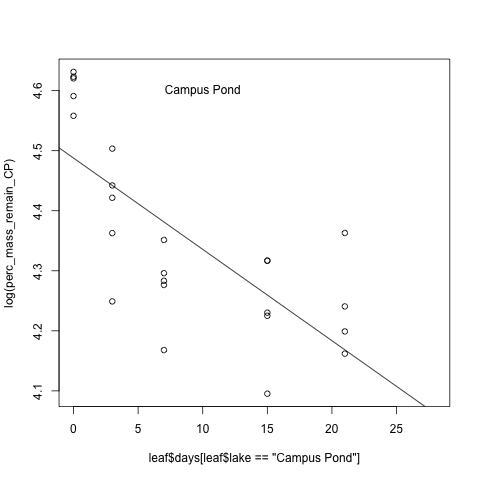
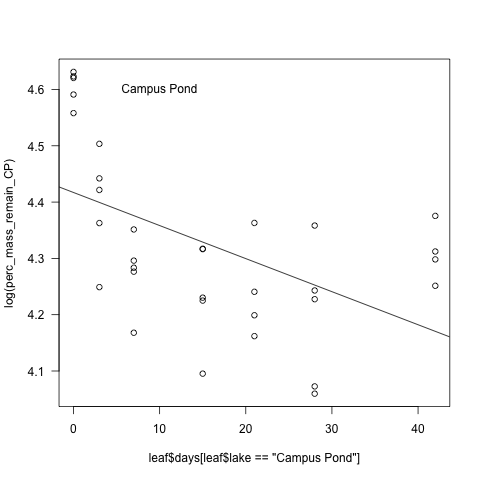
calculated and plotted the mass and percent loss for ponds to date

diff --git a/lab_notebook_entries/data_analysis/code/leaf_dry_mass_analysis.md b/lab_notebook_entries/data_analysis/code/leaf_dry_mass_analysis.md
@@ -52,40 +52,40 @@ All ponds together
     plot(log(leaf_mass) ~ days, data = leaf, subset = lake == "Campus Pond")
     points(log(leaf_mass) ~ days, data = leaf, subset = lake == "Daulton Pond", col = 3)
     points(log(leaf_mass) ~ days, data = leaf, subset = lake == "Lancer Park Pond", col = 2)
-    dev.copy(png, "./output/plots/All_leaf_22days.png")
+    dev.copy(png, "./output/plots/All_ponds_leaf.png")
     dev.off()
 
-![Leaf mass remaining in all of the ponds after 22 days](../output/plots/All_leaf_22days.png)
+![Leaf mass remaining in all of the ponds](../output/plots/All_ponds_leaf.png)
 
 Campus Pond
    
     par(las = 1)
     plot(log(leaf_mass) ~ days, data = leaf, subset = lake == "Campus Pond")
     text(10, 1.5, "Campus Pond")
-    dev.copy(png, "./output/plots/CP_leaf_22days.png")
+    dev.copy(png, "./output/plots/CP_leaf.png")
     dev.off()
 
-![Leaf mass remaining in Campus Pond after 22 days](../output/plots/CP_leaf_22days.png)
+![Leaf mass remaining in Campus Pond](../output/plots/CP_leaf.png)
 
 Daulton Pond
 
     par(las = 1)
     plot(log(leaf_mass) ~ days, data = leaf, subset = lake == "Daulton Pond")
     text(10, 1.5, "Daulton Pond")
-    dev.copy(png, "./output/plots/DP_leaf_22days.png")
+    dev.copy(png, "./output/plots/DP_leaf.png")
     dev.off()
 
-![Leaf mass remaining in Daulton Pond after 22 days](../output/plots/DP_leaf_22days.png)
+![Leaf mass remaining in Daulton Pond ](../output/plots/DP_leaf.png)
 
 Lancer Park Pond
 
     par(las = 1)
     plot(log(leaf_mass) ~ days, data = leaf, subset = lake == "Lancer Park Pond")
     text(10, 1.5, "Lancer Park Pond")
-    dev.copy(png, "./output/plots/LPP_leaf_15days.png")
+    dev.copy(png, "./output/plots/LPP_leaf.png")
     dev.off()
 
-![Leaf mass remaining in Lancer Park Pond after 15 days](../output/plots/LPP_leaf_15days.png)
+![Leaf mass remaining in Lancer Park Pond](../output/plots/LPP_leaf.png)
  
 #### Plot curves based on percent for each pond
 
@@ -106,23 +106,6 @@ Lancer Park Pond
 * perc_mass_remain_CP = the percent of the leaf mass remaining relative to `initial_mass_CP`
 
     perc_mass_remain_CP <- (leaf_mass[leaf$lake == "Campus Pond"] / initial_mass_CP) * 100
-
-~~~~
-
-perc_mass_remain_CP
- [1]  95.39921 101.82396  98.59482 102.63739 101.54462  83.22681  70.03540
- [8]  78.47138  84.95647  90.32421  71.98182  64.58274  72.48686  73.40756
-[15]  77.58644  74.97184  60.05748  68.73480  74.92715  68.37725  78.48926
-[22]  69.45438  64.19613        NA  66.62078        NA        NA        NA
-[29]        NA        NA        NA        NA        NA        NA        NA
-[36]        NA        NA        NA        NA        NA        NA        NA
-[43]        NA        NA        NA        NA        NA        NA        NA
-[50]        NA        NA        NA        NA        NA        NA        NA
-[57]        NA        NA        NA        NA        NA        NA        NA
-[64]        NA        NA        NA        NA        NA        NA        NA
->
-
-~~~~
 
 Plot of the ln percent mass remaining by days in the pond
 
@@ -149,22 +132,77 @@ lm(formula = log(perc_mass_remain_CP) ~ leaf$days[leaf$lake ==
     "Campus Pond"])
 
 Residuals:
-      Min        1Q    Median        3Q       Max 
--0.213327 -0.080852 -0.003174  0.070825  0.194654 
+     Min       1Q   Median       3Q      Max 
+-0.23363 -0.09867 -0.01241  0.10574  0.21416 
 
 Coefficients:
                                        Estimate Std. Error t value Pr(>|t|)    
-(Intercept)                            4.487757   0.034834 128.832  < 2e-16 ***
-leaf$days[leaf$lake == "Campus Pond"] -0.015212   0.003027  -5.026 4.95e-05 ***
+(Intercept)                            4.417037   0.035825 123.295  < 2e-16 ***
+leaf$days[leaf$lake == "Campus Pond"] -0.005874   0.001730  -3.396  0.00189 ** 
 ---
 
-Residual standard error: 0.1116 on 22 degrees of freedom
-  (46 observations deleted due to missingness)
-Multiple R-squared: 0.5345,	Adjusted R-squared: 0.5133 
-F-statistic: 25.26 on 1 and 22 DF,  p-value: 4.948e-05 
+Residual standard error: 0.1346 on 31 degrees of freedom
+  (37 observations deleted due to missingness)
+Multiple R-squared: 0.2711,	Adjusted R-squared: 0.2476 
+F-statistic: 11.53 on 1 and 31 DF,  p-value: 0.001892 
 
->
+> 
 
 ~~~~
 
-In this case the ln percent remaining still shows a curveilinear relationship.
+##### Daulton Pond
+
+* initial_mass_CP = the mean of the mass of the leaf packs that were placed in the Daulton Pond during deployment and then removed immediately 
+
+    initial_mass_DP <- mean(leaf_mass[leaf$days == 0 & leaf$lake == "Daulton Pond"], na.rm = T)
+
+~~~~
+
+> initial_mass_DP
+[1] 4.49732
+> 
+
+~~~~
+
+* perc_mass_remain_DP = the percent of the leaf mass remaining relative to `initial_mass_DP`
+
+    perc_mass_remain_DP <- (leaf_mass[leaf$lake == "Daulton Pond"] / initial_mass_DP) * 100
+
+Plot of the ln percent mass remaining by days in the pond
+
+    plot(log(perc_mass_remain_DP) ~ leaf$days[leaf$lake == "Daulton Pond"])
+    abline(lm(log(perc_mass_remain_DP) ~ leaf$days[leaf$lake == "Daulton Pond"]))
+    text(10, 4.6, "Daulton Pond")
+    dev.copy(png, "./output/plots/DP_perc_loss.png")
+    dev.off()
+
+![Percent remaining leaf mass in Daulton Pond](../output/plots/DP_perc_loss.png)
+
+##### Lancer Park Pond
+
+* initial_mass_CP = the mean of the mass of the leaf packs that were placed in the Daulton Pond during deployment and then removed immediately 
+
+    initial_mass_LPP <- mean(leaf_mass[leaf$days == 0 & leaf$lake == "Lancer Park Pond"], na.rm = T)
+
+~~~~
+
+> initial_mass_LPP
+[1] 4.33764
+> 
+
+~~~~
+
+* perc_mass_remain_LPP = the percent of the leaf mass remaining relative to `initial_mass_LPP`
+
+    perc_mass_remain_LPP <- (leaf_mass[leaf$lake == "Lancer Park Pond"] / initial_mass_LPP) * 100
+
+Plot of the ln percent mass remaining by days in the pond
+
+    plot(log(perc_mass_remain_LPP) ~ leaf$days[leaf$lake == "Lancer Park Pond"])
+    abline(lm(log(perc_mass_remain_LPP) ~ leaf$days[leaf$lake == "Lancer Park Pond"]))
+    text(10, 4.6, "Lancer Park Pond")
+    dev.copy(png, "./output/plots/LPP_perc_loss.png")
+    dev.off()
+
+![Percent remaining leaf mass in Lancer Park Pond](../output/plots/LPP_perc_loss.png)
+
